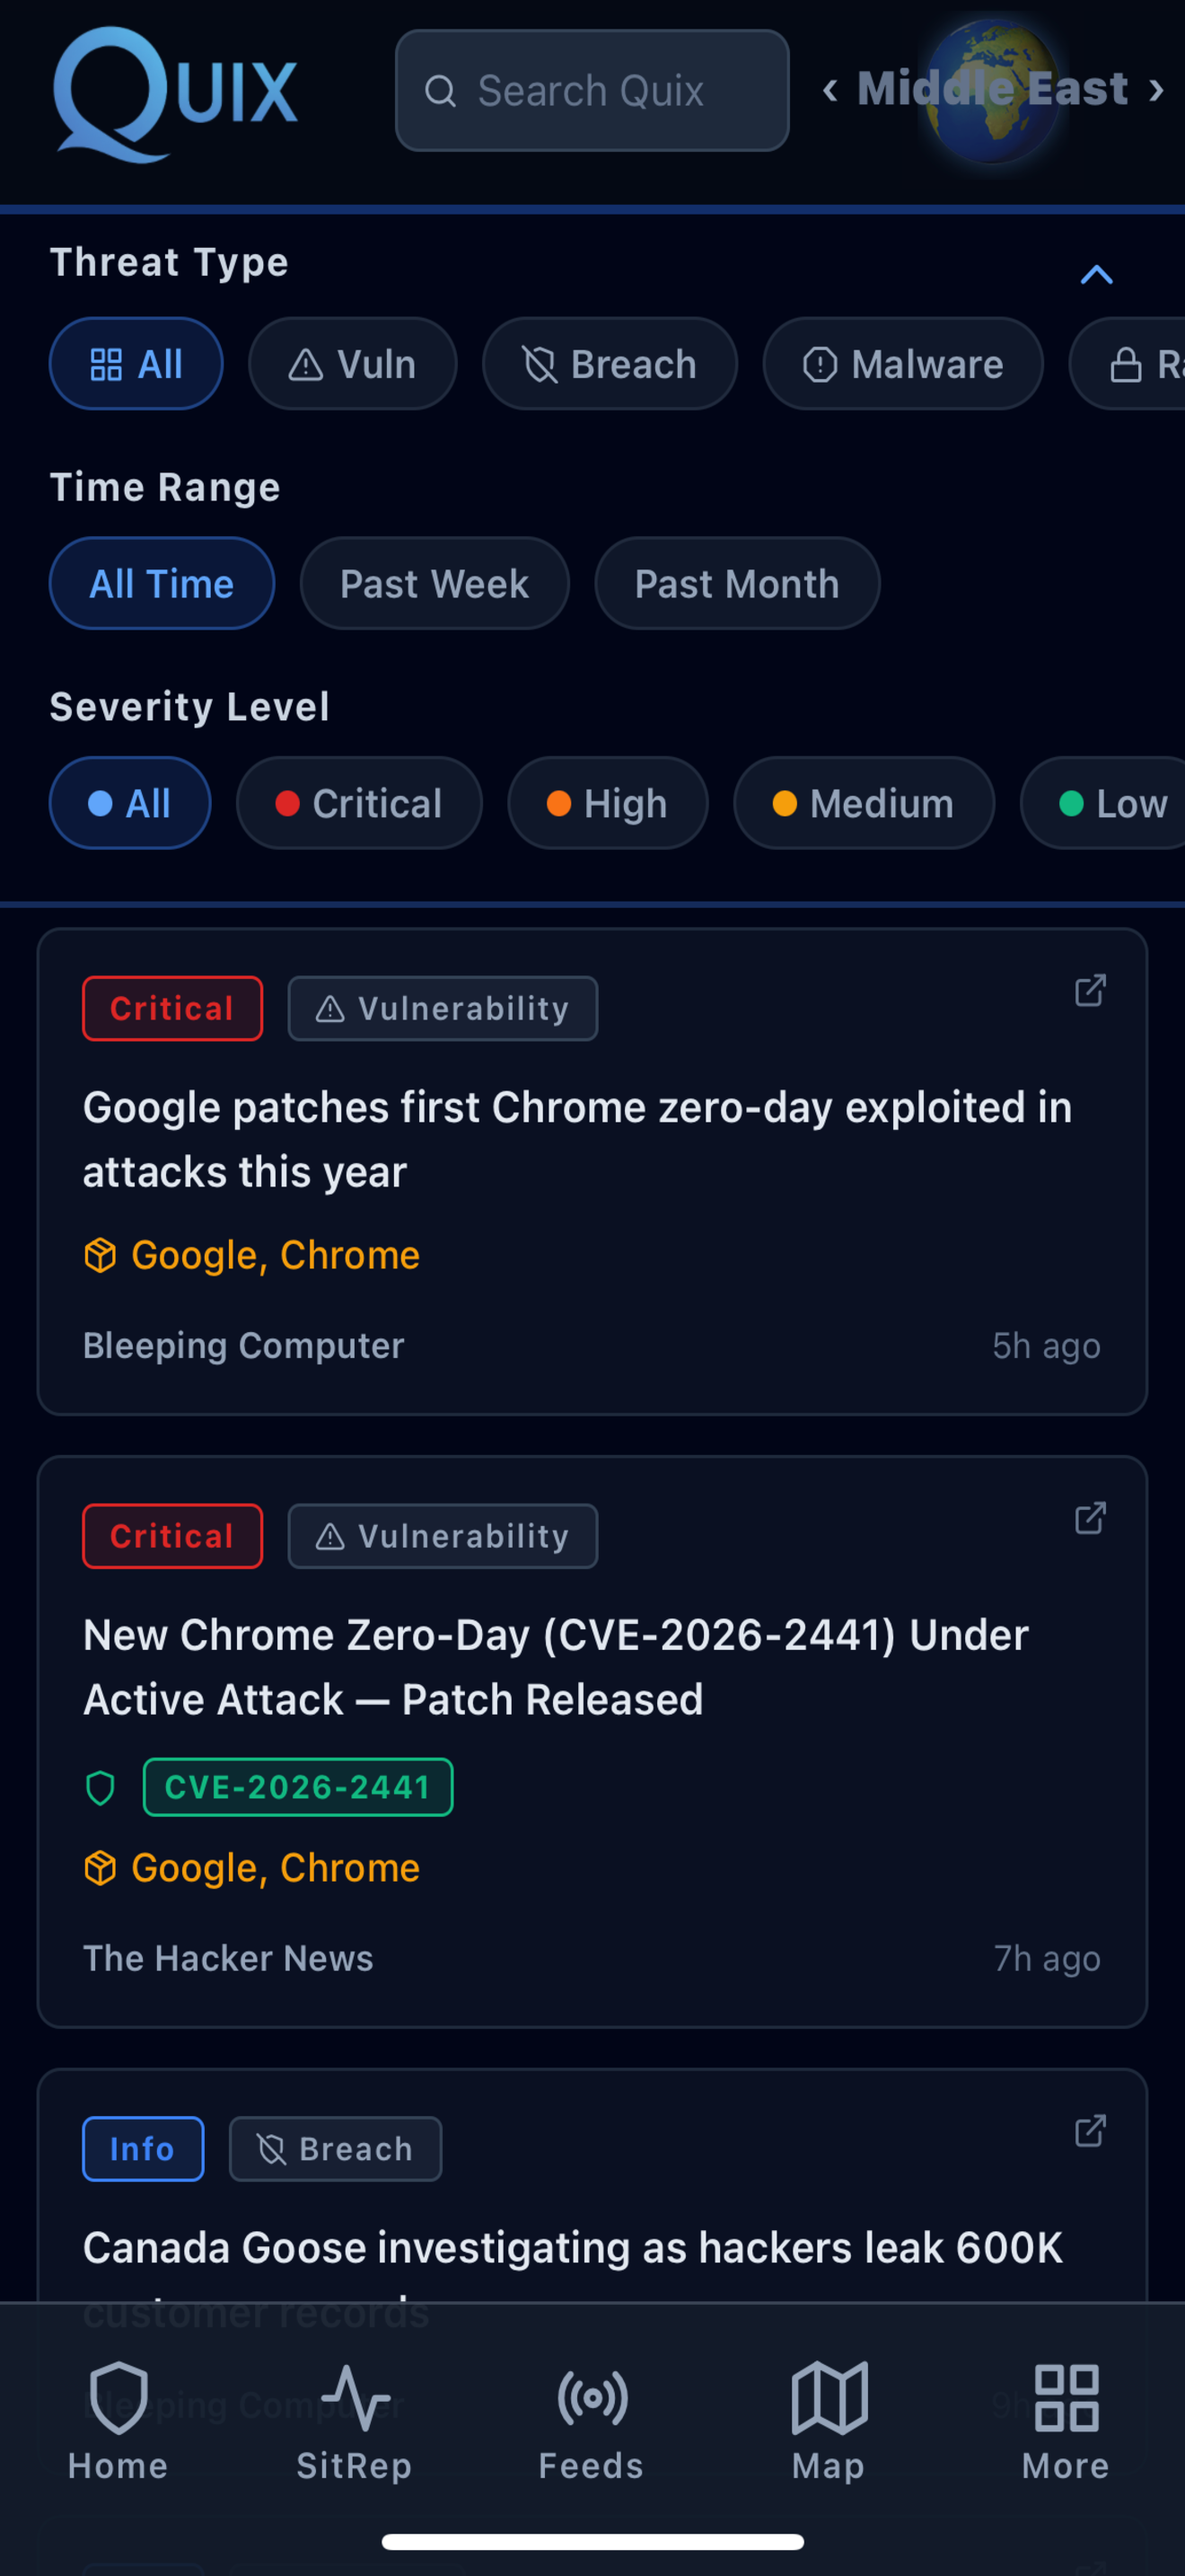
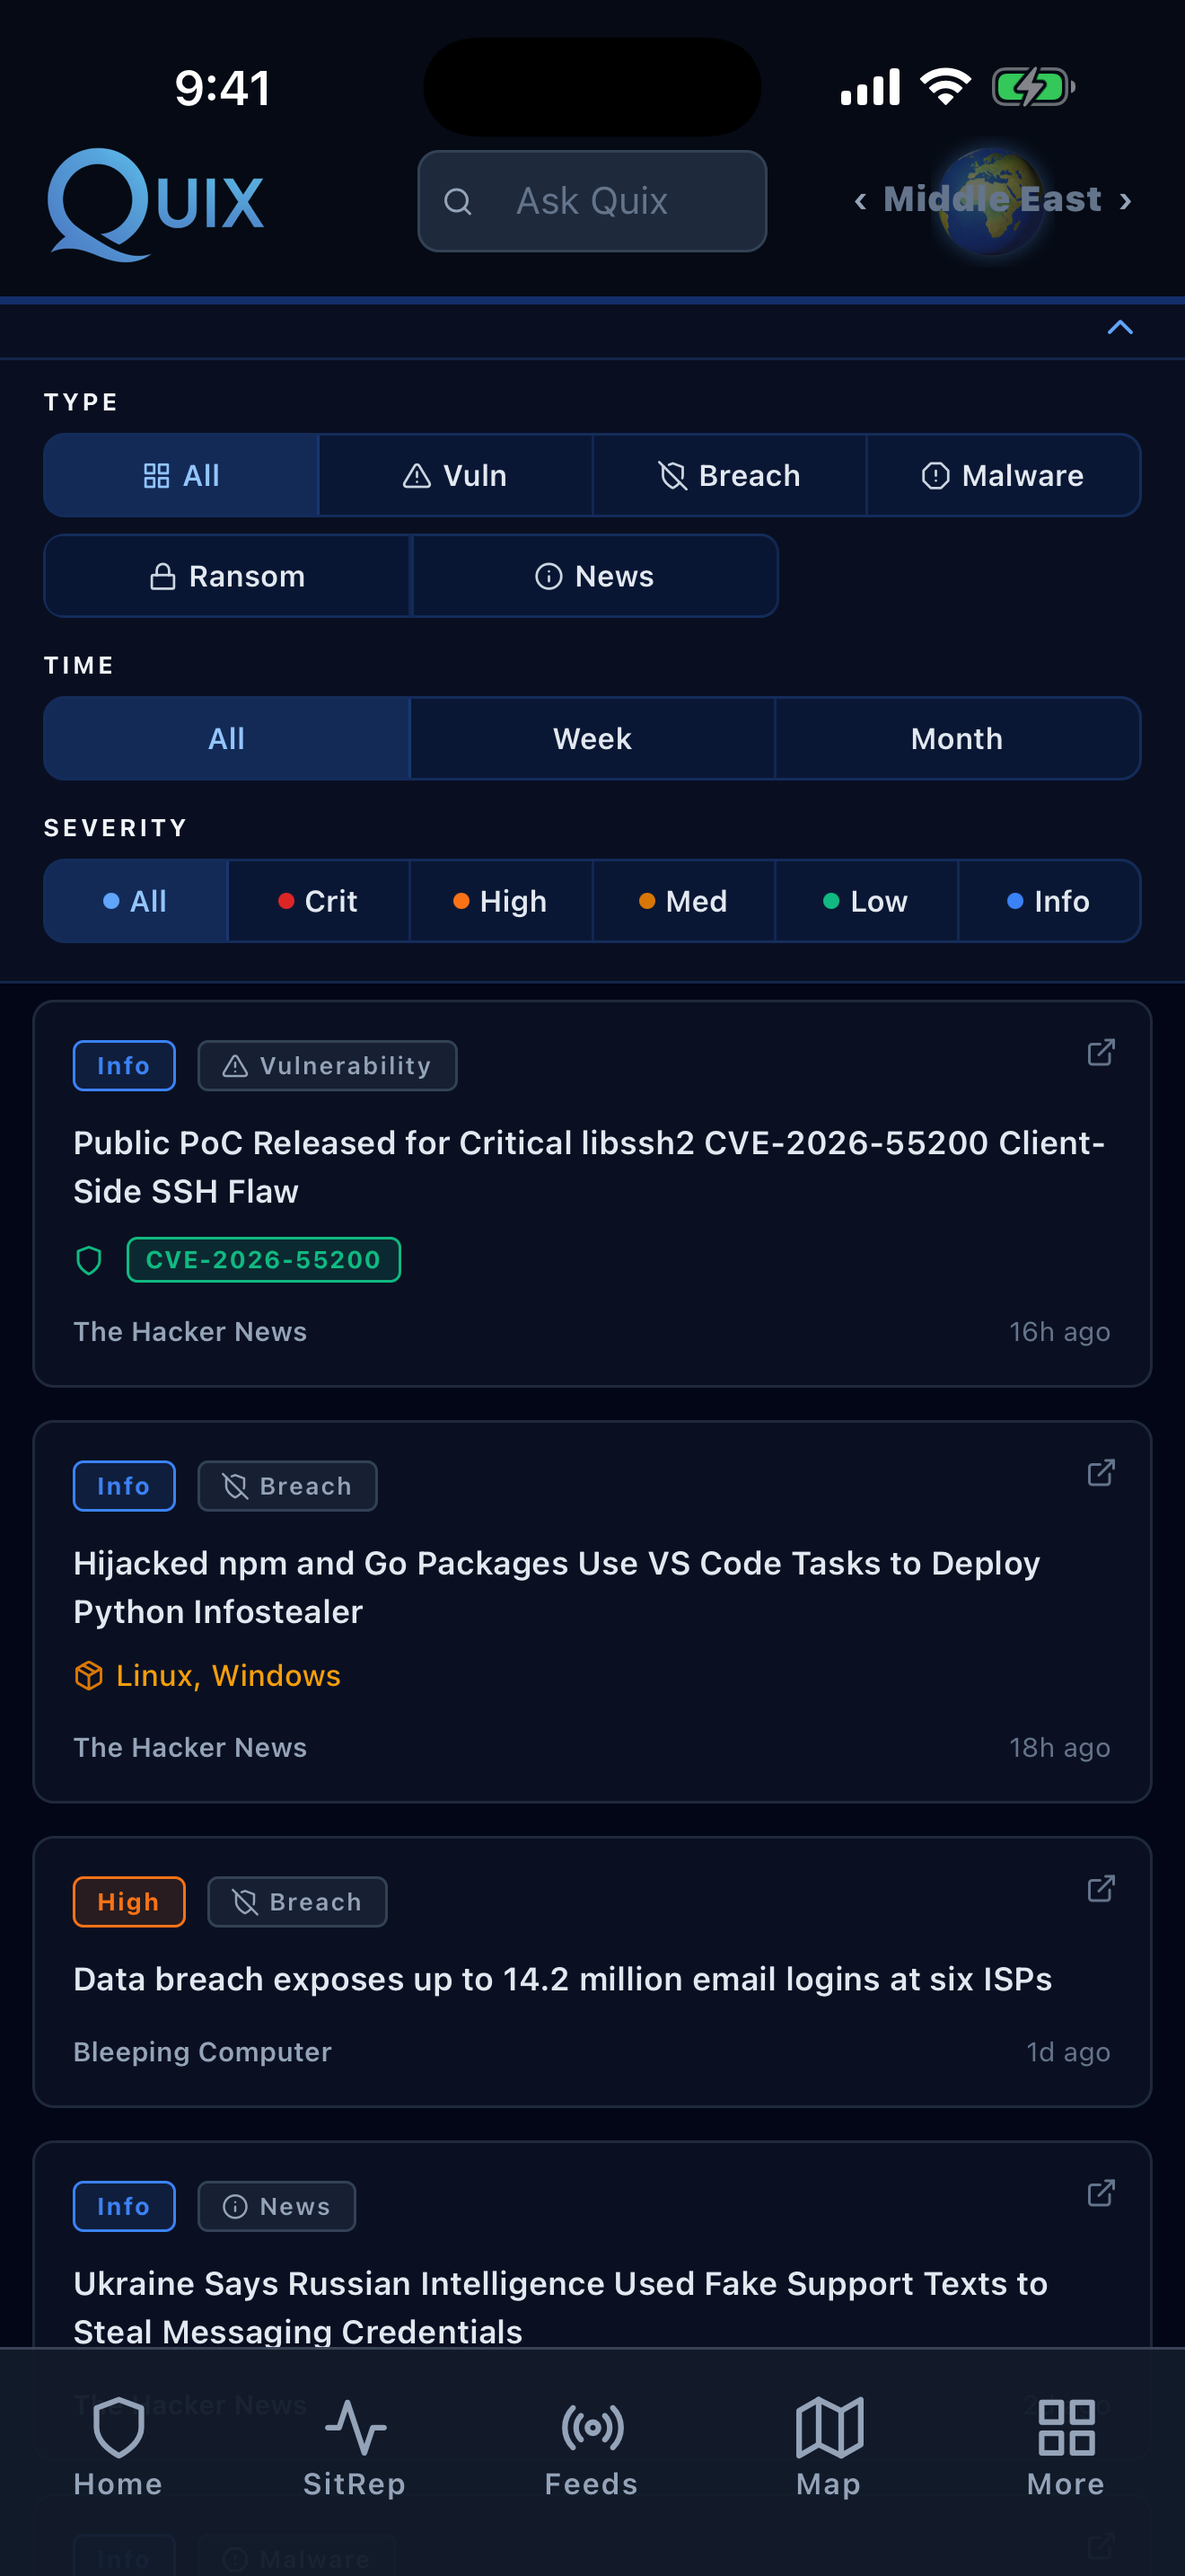
Update carousel with June 2026 App Store submission screenshots
Replace 6 of 7 carousel images with the raw captures from the v1.1.3
App Store submission set (iPhone 17 Pro Max, 1320x2868) and add a new
Regional Intelligence slide (8 slides total). The old Event Mapping
slide is recaptioned Country Deep-Dive to match its new image. Mesh
Chat keeps its existing image — no new capture exists for it.

diff --git a/index.html b/index.html
@@ -154,6 +154,16 @@
                         <div class="screenshot-slide" data-index="1">
                             <div class="phone-frame">
                                 <div class="phone-notch"></div>
+                                <img src="assets/images/screenshots/screenshot-8.png" alt="Regional Threat View" loading="lazy">
+                            </div>
+                            <div class="slide-caption">
+                                <h3>Regional Intelligence</h3>
+                                <p>Zoom into any region with live country-level threat scoring and event tracking</p>
+                            </div>
+                        </div>
+                        <div class="screenshot-slide" data-index="2">
+                            <div class="phone-frame">
+                                <div class="phone-notch"></div>
                                 <img src="assets/images/screenshots/screenshot-2.png" alt="Interactive Map" loading="lazy">
                             </div>
                             <div class="slide-caption">
@@ -161,7 +171,7 @@
                                 <p>Geospatial intelligence with live event tracking and country-level analysis</p>
                             </div>
                         </div>
-                        <div class="screenshot-slide" data-index="2">
+                        <div class="screenshot-slide" data-index="3">
                             <div class="phone-frame">
                                 <div class="phone-notch"></div>
                                 <img src="assets/images/screenshots/screenshot-3.png" alt="Situation Reports" loading="lazy">
@@ -171,7 +181,7 @@
                                 <p>Automated executive assessments with multi-timeframe analysis</p>
                             </div>
                         </div>
-                        <div class="screenshot-slide" data-index="3">
+                        <div class="screenshot-slide" data-index="4">
                             <div class="phone-frame">
                                 <div class="phone-notch"></div>
                                 <img src="assets/images/screenshots/screenshot-4.png" alt="News Feed" loading="lazy">
@@ -181,17 +191,17 @@
                                 <p>Aggregated intelligence from verified news, wire services, and social media</p>
                             </div>
                         </div>
-                        <div class="screenshot-slide" data-index="4">
+                        <div class="screenshot-slide" data-index="5">
                             <div class="phone-frame">
                                 <div class="phone-notch"></div>
-                                <img src="assets/images/screenshots/screenshot-5.png" alt="Event Map" loading="lazy">
+                                <img src="assets/images/screenshots/screenshot-5.png" alt="Country Threat Assessment" loading="lazy">
                             </div>
                             <div class="slide-caption">
-                                <h3>Event Mapping</h3>
-                                <p>Severity-coded events plotted in real-time with filtering by threat level</p>
+                                <h3>Country Deep-Dive</h3>
+                                <p>Drill into any country for AI threat assessments, event clusters, and travel guidance</p>
                             </div>
                         </div>
-                        <div class="screenshot-slide" data-index="5">
+                        <div class="screenshot-slide" data-index="6">
                             <div class="phone-frame">
                                 <div class="phone-notch"></div>
                                 <img src="assets/images/screenshots/screenshot-6.png" alt="Cyber Threats" loading="lazy">
@@ -201,7 +211,7 @@
                                 <p>Track vulnerabilities, breaches, and zero-days with severity-based alerts</p>
                             </div>
                         </div>
-                        <div class="screenshot-slide" data-index="6">
+                        <div class="screenshot-slide" data-index="7">
                             <div class="phone-frame">
                                 <div class="phone-notch"></div>
                                 <img src="assets/images/screenshots/screenshot-7.png" alt="Mesh Chat" loading="lazy">
